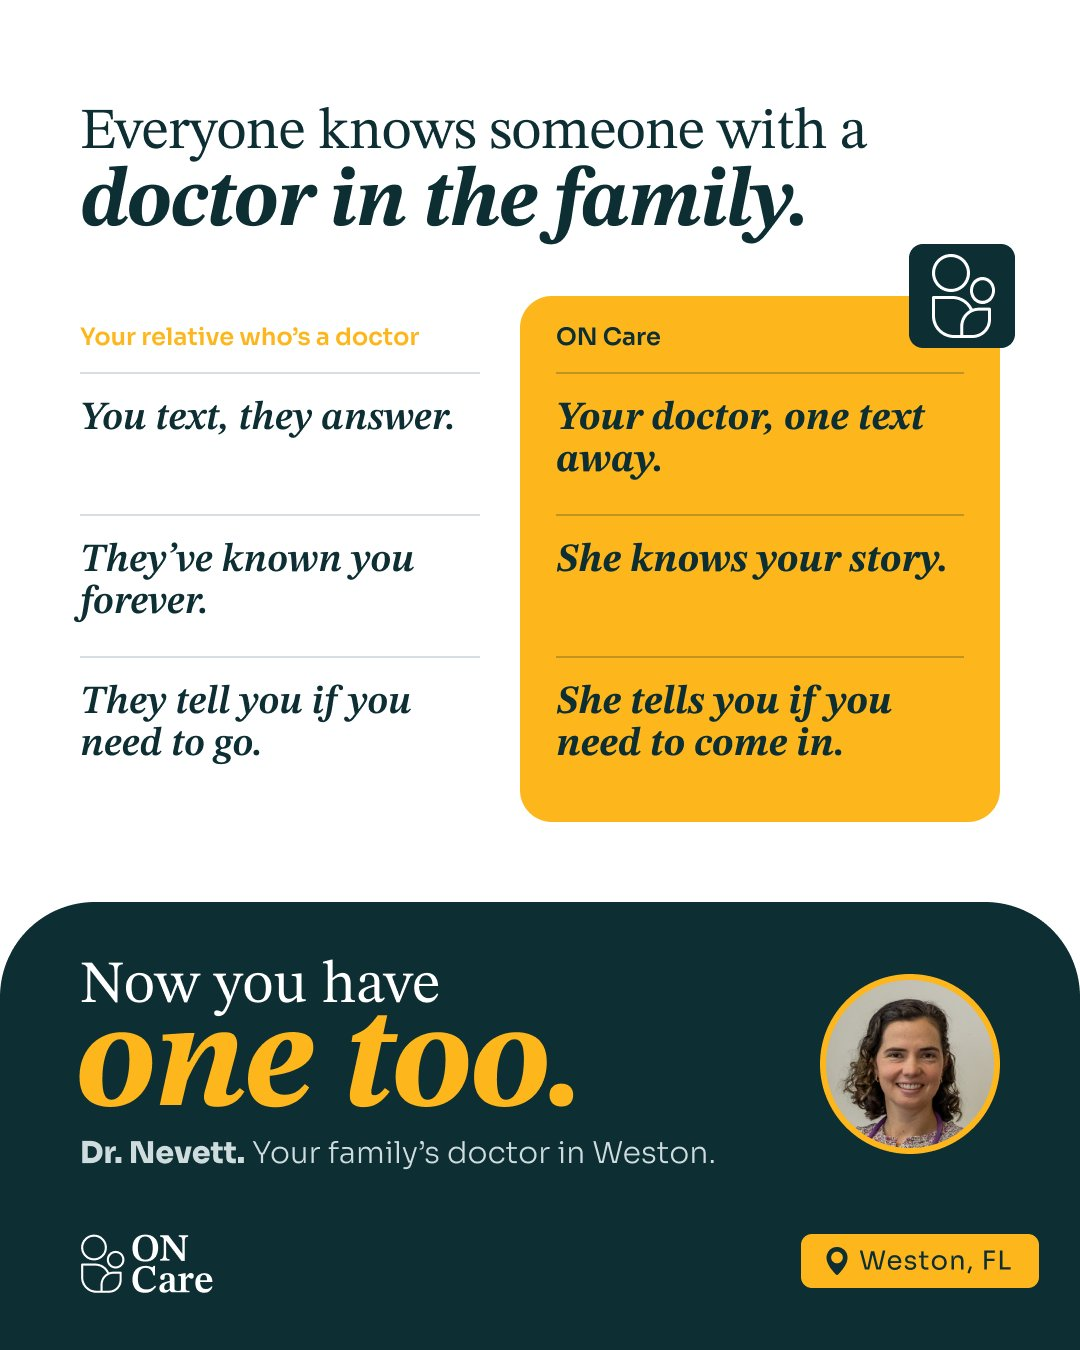
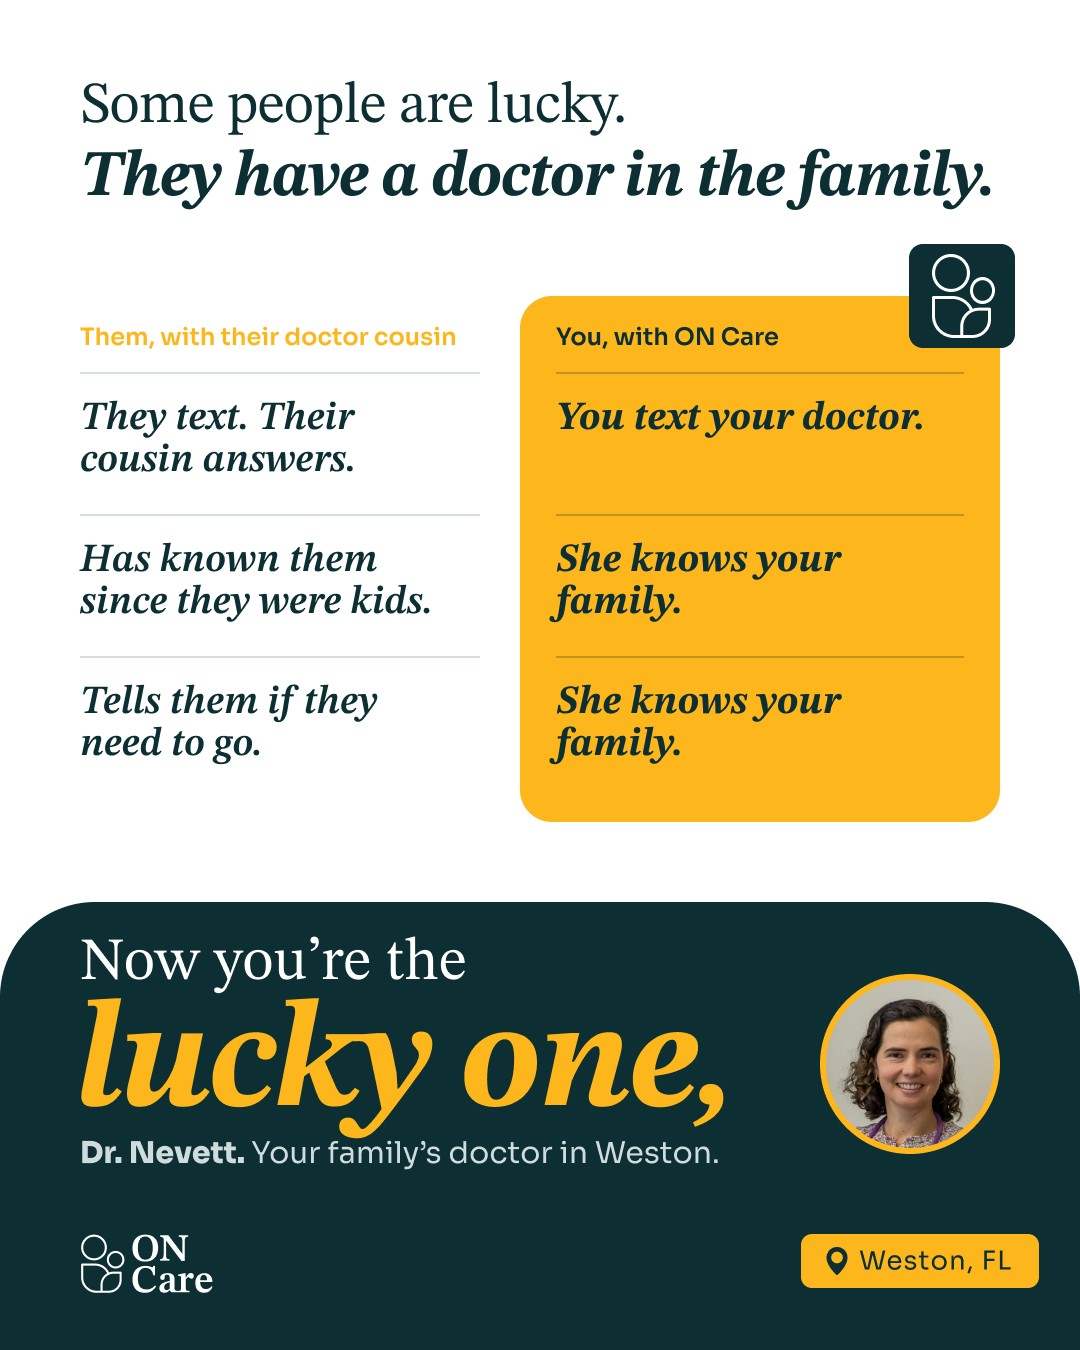
Grilla ON Care noviembre: nueva imagen y caption bilingüe en el post 4

diff --git a/public/grilla-oncare-nov/index.html b/public/grilla-oncare-nov/index.html
@@ -481,7 +481,7 @@ const posts = [
   ],
   "num": 4,
   "story": false,
-  "caption": "You know the one. The cousin or aunt who's a doctor, the one everyone texts when a kid has a weird rash or a fever that won't go down. They know your family, they answer, and they tell you if it's something to worry about or if you can wait until morning.\n\nNot everyone has that person. Now you can.\n\nWith ON Care, you text Dr. Nevett directly. She knows your story, and she tells you when you need to come in.\n\nYour family's doctor in Weston. Send us a message and we'll walk you through how it works.\n\nES\n\nTodos tenemos a alguien así. El primo o la tía que es doctor, al que toda la familia le escribe cuando a un niño le sale un sarpullido raro o la fiebre no baja. Conoce a tu familia, te responde y te dice si es algo de cuidado o si puedes esperar a mañana.\n\nNo todo el mundo tiene a esa persona. Ahora tú también puedes tenerla.\n\nCon ON Care le escribes directo a la Dra. Nevett. Ella conoce tu historia y te dice cuándo tienes que venir.\n\nTu doctor de familia en Weston. Escríbenos y te contamos cómo funciona."
+  "caption": "We all know someone like this. The friend whose brother is a pediatrician, the neighbor with a cousin in medicine. When their kid’s fever won’t go down, they don’t sit with the doubt. They text, someone answers, and they know whether to worry or wait.\n\nLucky them, right?\n\nWith ON Care, now you’re the lucky one. You text Dr. Nevett directly. She knows your family, and she tells you when you need to come in.\n\nYour family’s doctor in Weston. Send us a message and we’ll walk you through how it works.\n\nES\n\nTodos conocemos a alguien así. La amiga con un hermano pediatra, el vecino con la prima doctora. Cuando al niño le sube la fiebre, no se quedan con la duda: le escriben, les contestan y saben si es para preocuparse o si pueden esperar.\n\nQué suerte, ¿verdad?\n\nCon ON Care, esa suerte también es tuya. Le escribes directo a la Dra. Nevett, ella conoce a tu familia y te dice cuándo hace falta venir.\n\nTu doctora de familia en Weston. Escríbenos y te contamos cómo funciona."
  },
  {
   "type": "video",
